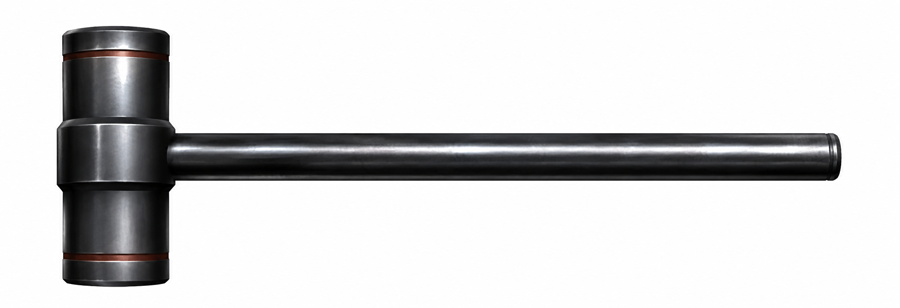
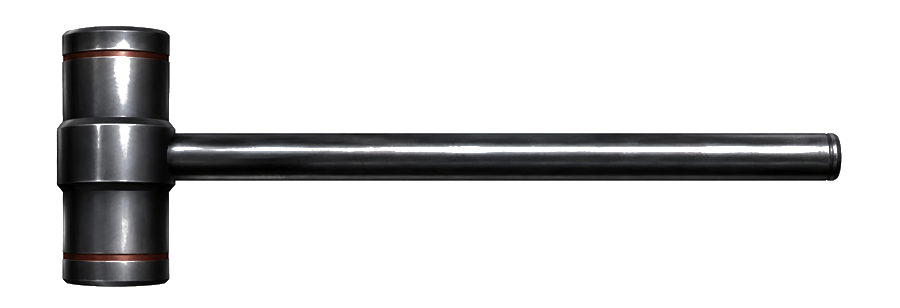
VIP: add Tesla zombie class (stats from source) + transparent product images

diff --git a/store.html b/store.html
@@ -30,10 +30,11 @@ const CONFIG = {
     {
       id:"vip", cat:"VIP", name:"VIP — TERROR ETA", icon:"fa-crown", featured:true, tiered:true,
       short:"The exclusive TERROR ETA model, the Hammer knife & a stack of perks.",
-      gallery:["assets/vip/terror.png","assets/vip/terror-hammer.png","assets/vip/hammer.png"],
+      gallery:["assets/vip/terror.png","assets/vip/terror-hammer.png","assets/vip/hammer.png","assets/vip/tesla2.png","assets/vip/tesla1.png"],
       perks:[
         { i:"fa-user-ninja", t:"TERROR ETA model", d:"The exclusive VIP player model shown here — only VIPs wear it." },
         { i:"fa-hammer",     t:"VIP Knife — Hammer", d:"The heavy Hammer melee (full details below)." },
+        { i:"fa-bolt",       t:"Tesla zombie class", d:"Turn into the electric Tesla zombie — 3500 HP + energy-ball ability (stats below)." },
         { i:"fa-shield-halved", t:"Random armor 35–100", d:"Fresh random armor every single round." },
         { i:"fa-feather",    t:"Gravity", d:"The Hammer's weight gives you a higher, floatier jump." },
         { i:"fa-gun",        t:"Special guns", d:"Access to VIP-only weapons (rolling out soon)." },
@@ -303,7 +304,8 @@ function vipDetail(it){
         <div class="perks">${perks}</div>
       </div>
     </div>
-    ${hammerBlock()}`;
+    ${hammerBlock()}
+    ${teslaBlock()}`;
 }
 
 function hammerBlock(){
@@ -321,6 +323,25 @@ function hammerBlock(){
       <div class="wstat"><div class="lab"><i class="fa-solid fa-arrows-left-right-to-line"></i> Knockback</div><p>The slam launches zombies away — your #1 tool to peel a horde off a doorway or a teammate.</p></div>
       <div class="wstat"><div class="lab"><i class="fa-solid fa-feather"></i> Gravity</div><p>The Hammer's weight gives a higher, floatier jump. Reach crates &amp; ledges zombies can't, and slam from above.</p></div>
       <div class="wstat"><div class="lab"><i class="fa-solid fa-lightbulb"></i> How to hold it &amp; tips</div><p>Back to a wall, jump to high ground, bait the slam. Don't spam Mouse 2 (it has a cooldown) — mix Mouse 1 to stay safe between slams.</p></div>
+    </div>
+  </div>`;
+}
+
+function teslaBlock(){
+  return `
+  <div class="weapon">
+    <div class="wtop">
+      <div class="wpic"><img src="assets/vip/tesla2.png" alt="Tesla zombie"></div>
+      <div class="whead"><div class="k" style="color:#a78bfa">VIP ZOMBIE CLASS</div><h2>Tesla</h2>
+        <p>A tanky electric zombie that charges and hurls energy balls — they explode and freeze humans where they stand. Pick it from the zombie-class menu once you're VIP.</p></div>
+    </div>
+    <div class="wstats">
+      <div class="wstat"><div class="lab"><i class="fa-solid fa-heart"></i> Health</div><p><b>3500 HP</b> — one of the tankiest classes, soaks a ton of fire before going down.</p></div>
+      <div class="wstat"><div class="lab"><i class="fa-solid fa-bolt"></i> Energy balls</div><p><b>5 per round.</b> Hold <b>Mouse 2</b> with the knife out to charge an orb, then release to launch it.</p></div>
+      <div class="wstat"><div class="lab"><i class="fa-solid fa-snowflake"></i> What it does</div><p>The orb explodes in a blast and <b>traps humans — they can't move or shoot for ~5s</b> (survivors shrug it off). ~20 damage + knockback on hit.</p></div>
+      <div class="wstat"><div class="lab"><i class="fa-solid fa-hourglass-half"></i> Cooldown</div><p>~15s between balls — time your shots. A purple lightning trail marks the orb in flight.</p></div>
+      <div class="wstat"><div class="lab"><i class="fa-solid fa-feather"></i> Gravity</div><p><b>0.88</b> — a touch lower than normal, so the Tesla jumps a little higher and floatier.</p></div>
+      <div class="wstat"><div class="lab"><i class="fa-solid fa-arrows-left-right-to-line"></i> Knockback</div><p><b>0.50</b> — heavy &amp; stable; bullets barely shove it back, perfect for pushing chokepoints.</p></div>
     </div>
   </div>`;
 }